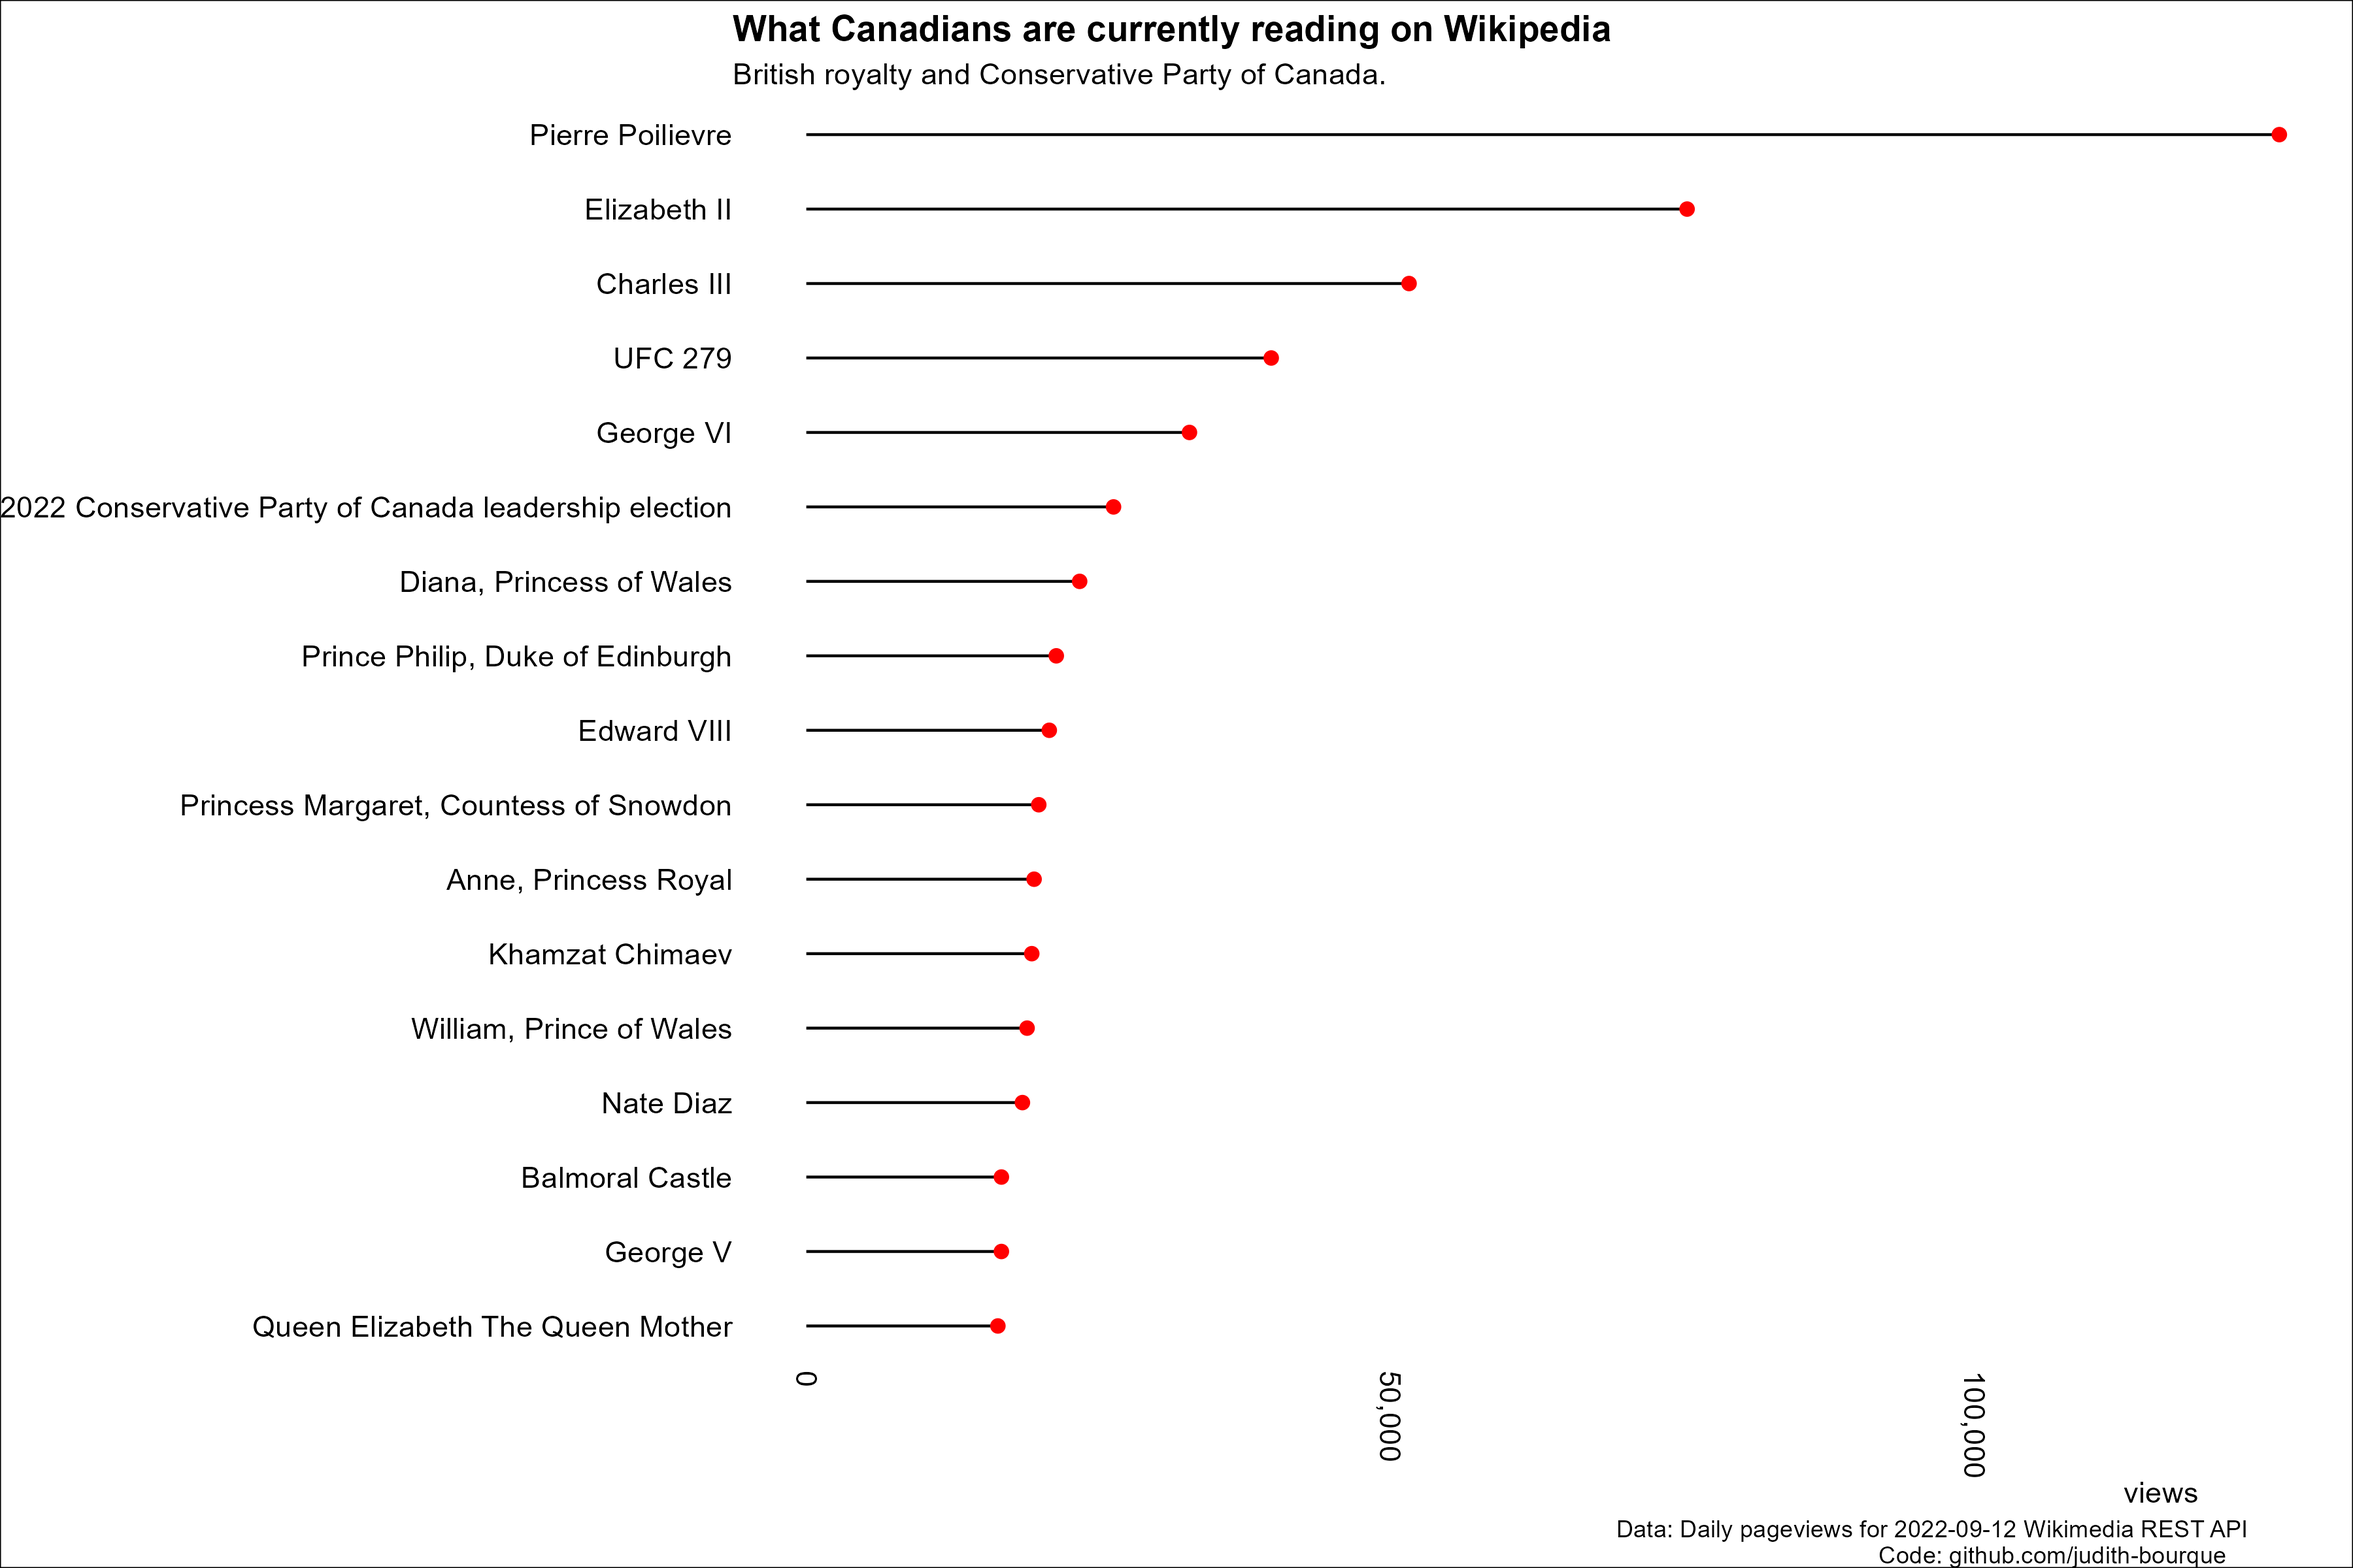
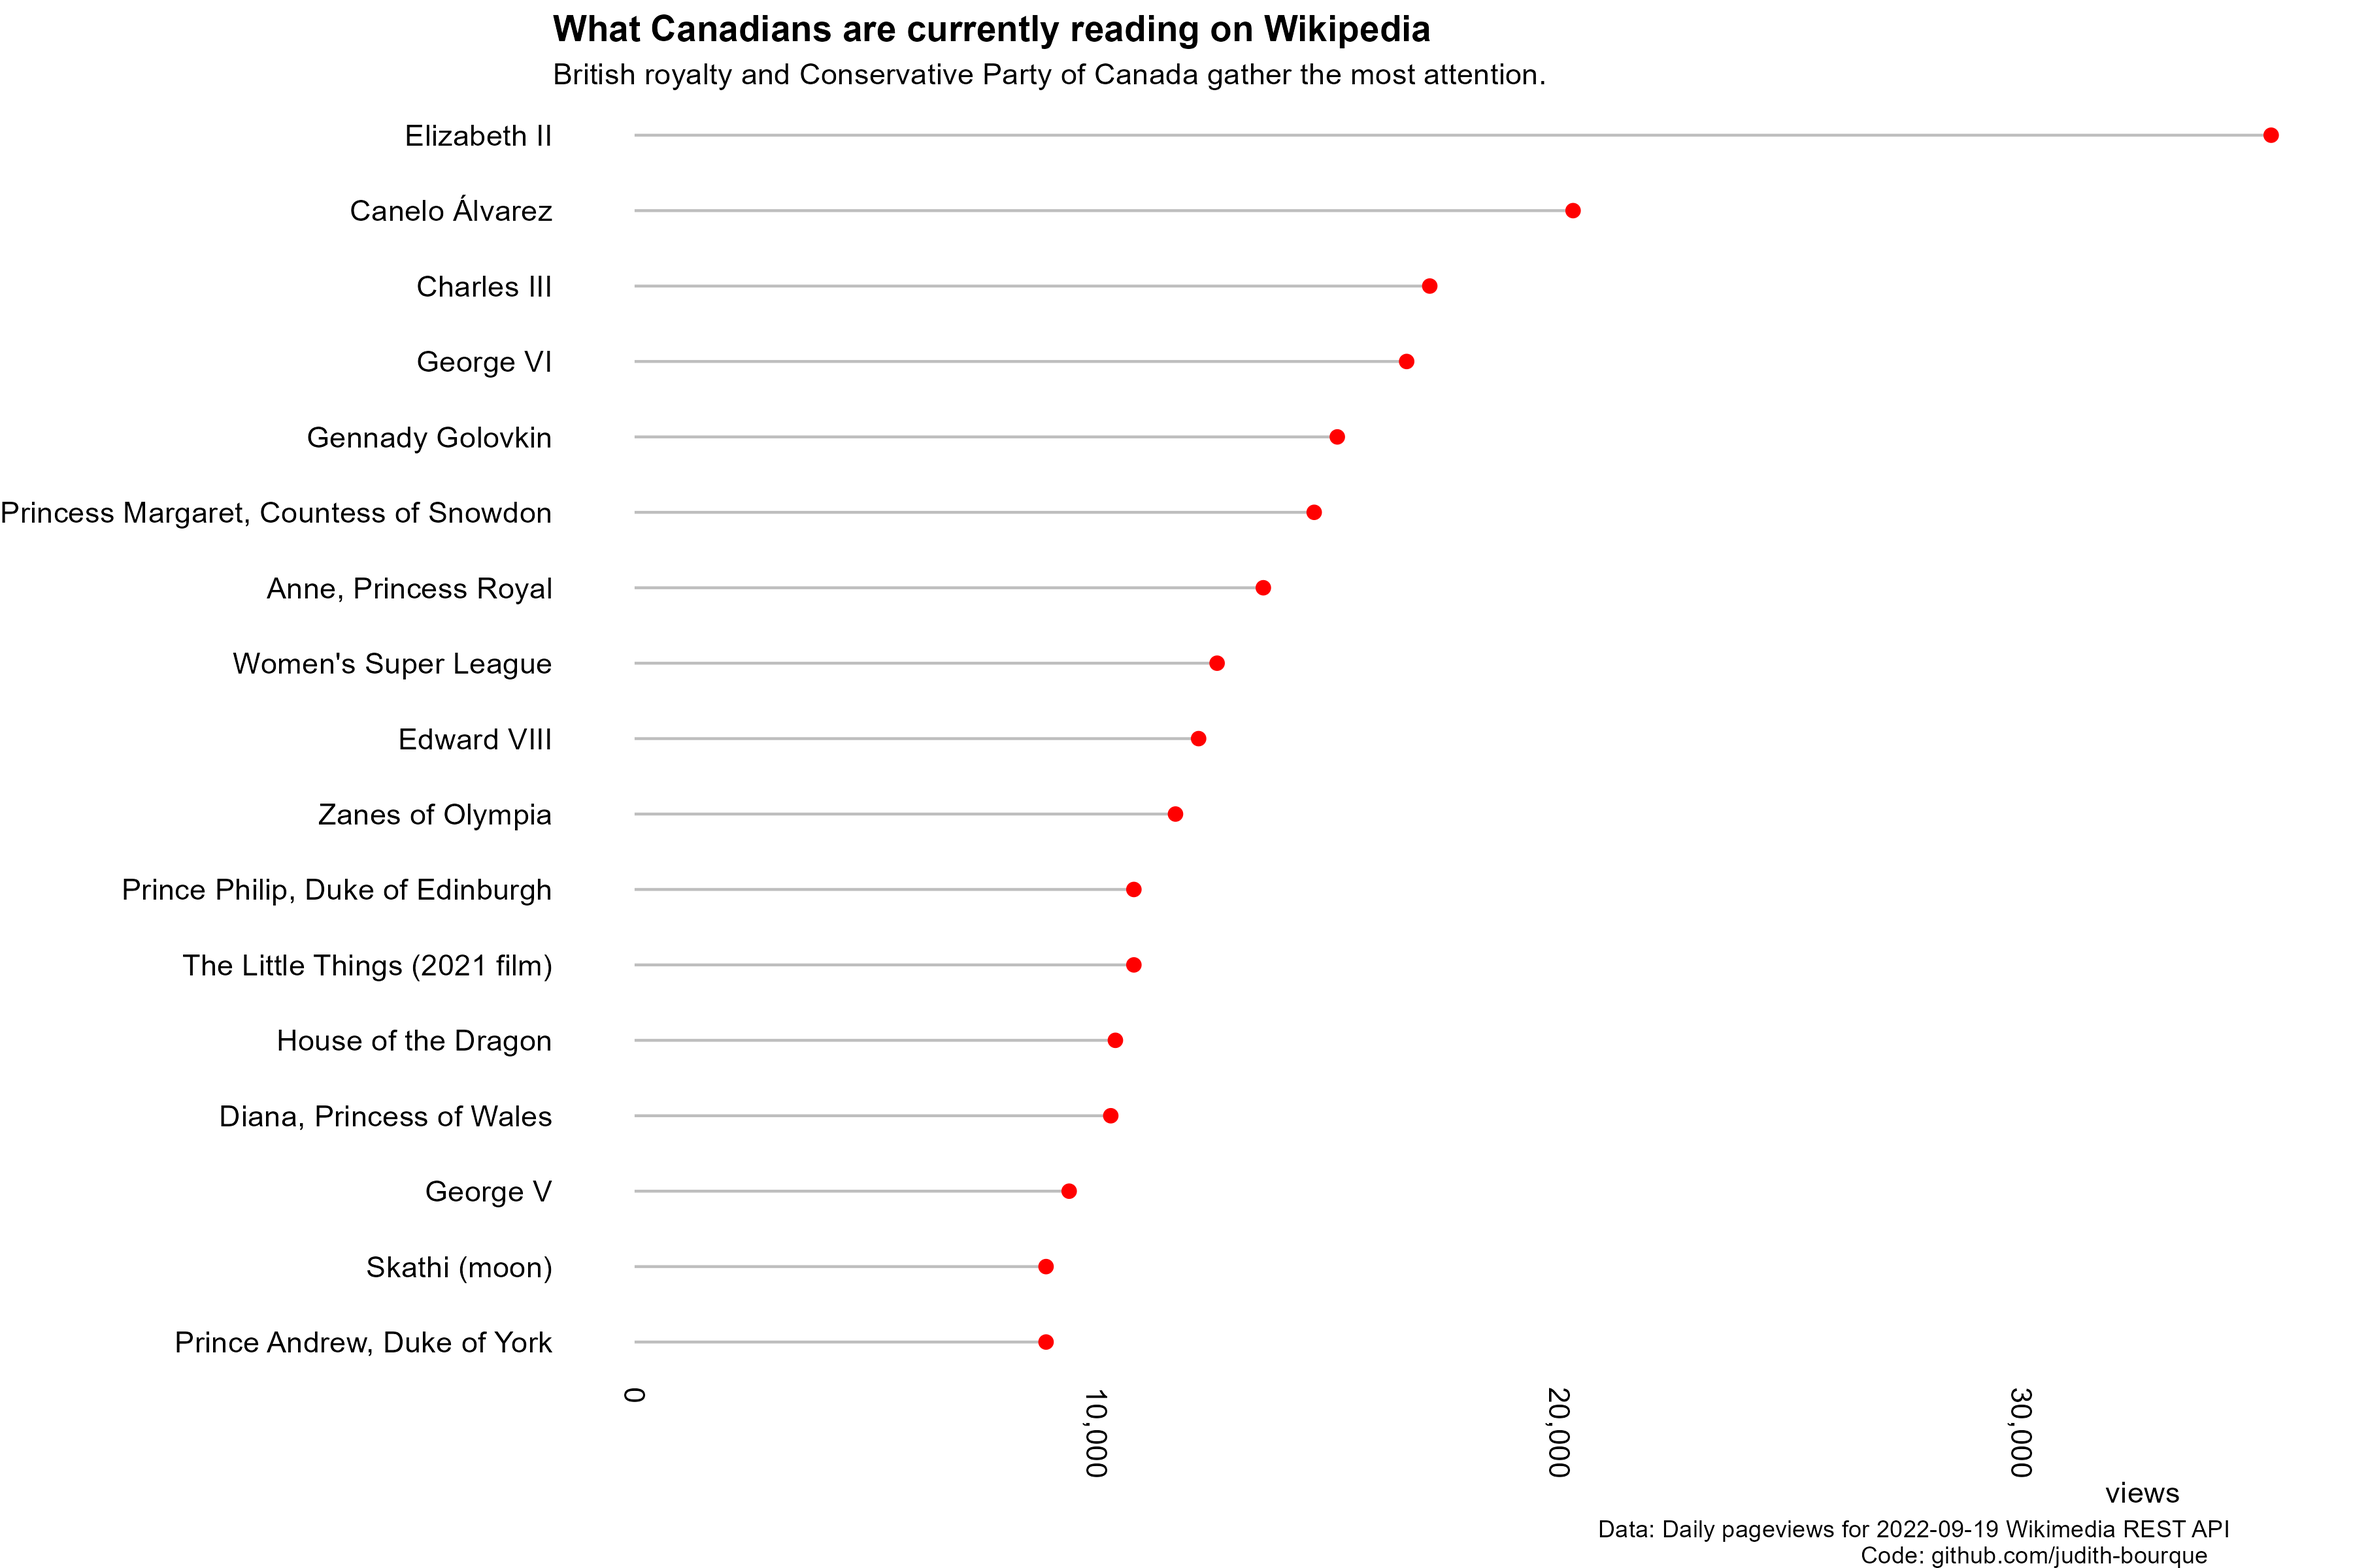
update Canada graph and add new graph

diff --git a/R/recreate_graph_voter_sentiment.md b/R/recreate_graph_voter_sentiment.md
@@ -1,0 +1,180 @@
+Can it R? Changes in Voter Sentiment
+================
+Judith Bourque
+2022-09-19
+
+This tutorial attempts to recreate the graph featured in the New York
+Times article [Democrats Buoyed by Abortion and Trump, Times/Siena Poll
+Finds](https://www.nytimes.com/2022/09/16/us/politics/biden-democrats-abortion-trump-poll.html),
+by Lisa Lerer and Nate Cohn.
+
+## Tutorial
+
+Create the dataframe by copying the data from the graph.
+
+``` r
+library(tidyverse)
+
+# Create columns
+question <- c(
+  # First question
+  "country_direction", "country_direction", "country_direction", "country_direction", "country_direction", "country_direction",
+  # Second question
+  "president_performance", "president_performance", "president_performance", "president_performance", "president_performance", "president_performance")
+
+group <- c(
+  # First question
+  "DEMOCRATS", "DEMOCRATS", "INDEPENDANTS", "INDEPENDANTS", "REPUBLICANS", "REPUBLICANS",
+  # Second question
+  "DEMOCRATS", "DEMOCRATS", "INDEPENDANTS", "INDEPENDANTS", "REPUBLICANS", "REPUBLICANS")
+
+percent <- as.numeric(c(
+  # First question
+  "27", "50", "9", "27", "5", "5",
+  # Second quesiton
+  "70", "83", "25", "39", "8", "4"))
+
+date <- as.Date(c(
+    # First question
+    "2022-07-01", "2022-09-01", "2022-07-01","2022-09-01", "2022-07-01", "2022-09-01",
+    # Second question
+    "2022-07-01", "2022-09-01", "2022-07-01", "2022-09-01", "2022-07-01", "2022-09-01"))
+
+# Consolidate the columns into a dataframe
+df <- tibble(question, group, percent, date) %>% 
+  mutate(group = factor(group, levels = c("REPUBLICANS", "INDEPENDANTS", "DEMOCRATS")))
+
+head(df)
+```
+
+    ## # A tibble: 6 × 4
+    ##   question          group        percent date      
+    ##   <chr>             <fct>          <dbl> <date>    
+    ## 1 country_direction DEMOCRATS         27 2022-07-01
+    ## 2 country_direction DEMOCRATS         50 2022-09-01
+    ## 3 country_direction INDEPENDANTS       9 2022-07-01
+    ## 4 country_direction INDEPENDANTS      27 2022-09-01
+    ## 5 country_direction REPUBLICANS        5 2022-07-01
+    ## 6 country_direction REPUBLICANS        5 2022-09-01
+
+Create the top plot in ggplot2.
+
+``` r
+# Create a dataframe with relevant data
+df1 <- df %>%
+  filter(question == "country_direction")
+
+# Create the first plot
+p1 <-
+  ggplot(df1, aes(x = percent, y = group, colour = group)) +
+  # Add thick arrow lines 
+  geom_line(size = 1.25) +
+  # Add arrow heads
+  geom_line(arrow = arrow(ends = "last", type = "closed")) +
+  # Adjust line breaks and axis limits
+  scale_x_continuous(breaks = c(0, 50, 100), limits = c(0, 100)) +
+  # Specify arrow colours
+  scale_colour_manual(values = c("#c43535", "#ababab", "#357dc4")) +
+  labs(title = "The country's direction",
+       subtitle = "Percent of respondents saying they think the United States is on the right track,\nin a July poll and in a September poll") +
+  geom_text(aes(label = percent), nudge_y = 0.4) +
+  # Start with a blank theme
+  theme_void() +
+  theme(
+    # Show axis ticks text
+    axis.text = element_text(),
+    axis.title = element_blank(),
+    legend.position = "none",
+    panel.border = element_rect(size = 1, fill = NA, colour = "white"),
+    # Add horizontal lines for groups
+    panel.grid.major.y = element_line(colour = "grey"),
+    # Add vertical lines for percentage
+    panel.grid.major.x = element_line(colour = "black"),
+    plot.title = element_text(face = "bold"),
+    # Align plot title to the left of the graph
+    plot.title.position = "plot"
+  )
+
+p1
+```
+
+![](recreate_graph_voter_sentiment_files/figure-gfm/unnamed-chunk-2-1.png)<!-- -->
+
+Create the second plot by replicating the first one with the leftover
+data.
+
+``` r
+# Create dataframe with relevant data
+df2 <- df %>%
+  filter(question == "president_performance")
+
+# Create the second plot
+p2 <- ggplot(df1, aes(x = percent, y = group, colour = group)) +
+  # Add thick arrow lines 
+  geom_line(size = 1.25) +
+  # Add arrow heads
+  geom_line(arrow = arrow(ends = "last", type = "closed")) +
+  # Adjust line breaks and axis limits
+  scale_x_continuous(breaks = c(0, 50, 100), limits = c(0, 100)) +
+  # Specify arrow colours
+  scale_colour_manual(values = c("#c43535", "#ababab", "#357dc4")) +
+  labs(title = "The country's direction",
+       subtitle = "Percent of respondents saying they think the United States is on the right track,\nin a July poll and in a September poll") +
+  geom_text(aes(label = percent), nudge_y = 0.4) +
+  # Start with a blank theme
+  theme_void() +
+  theme(
+    # Show axis ticks text
+    axis.text = element_text(),
+    axis.title = element_blank(),
+    legend.position = "none",
+    panel.border = element_rect(size = 1, fill = NA, colour = "white"),
+    # Add horizontal lines for groups
+    panel.grid.major.y = element_line(colour = "grey"),
+    # Add vertical lines for percentage
+    panel.grid.major.x = element_line(colour = "black"),
+    plot.title = element_text(face = "bold"),
+    # Align plot title to the left of the graph
+    plot.title.position = "plot"
+  )
+
+p2
+```
+
+![](recreate_graph_voter_sentiment_files/figure-gfm/unnamed-chunk-3-1.png)<!-- -->
+
+Stack the two plots using the `patchwork` plot arithmetic.
+
+``` r
+library(patchwork)
+
+p3 <- p1 / p2 
+
+p3
+```
+
+![](recreate_graph_voter_sentiment_files/figure-gfm/unnamed-chunk-4-1.png)<!-- -->
+
+Add a title and a caption with `patchwork::plot_annotation()`.
+
+``` r
+p4 <- p3 + plot_annotation(
+  title = "Changes in Voter Sentiment",
+  caption = "Based on a New York Times/Siena College poll of 1,399 registered voters nationwide from Sept. 6 to \n14, 2022, following a similar poll of 849 voters from July 5 to 7 of this year. July results for \nindependents include respondents who identified with a third party. By Lalena Fisher",
+  # Customize the theme using ggplot2::theme()
+  theme = theme(
+    # Assign a different font to the title and caption
+    text = element_text(family = "serif"),
+    plot.title = element_text(size = 15, face = "bold"),
+    plot.caption = element_text(size = 11, hjust = 0)))
+
+p4
+```
+
+![](recreate_graph_voter_sentiment_files/figure-gfm/unnamed-chunk-5-1.png)<!-- -->
+
+Save the graph with `ggplot2::ggsave()`.
+
+``` r
+ggsave("../graph/recreate_graph_voter_sentiment.png")
+```
